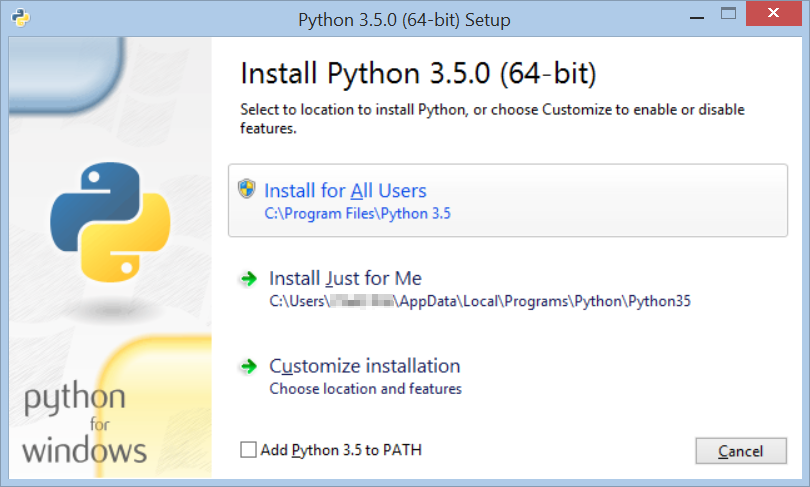
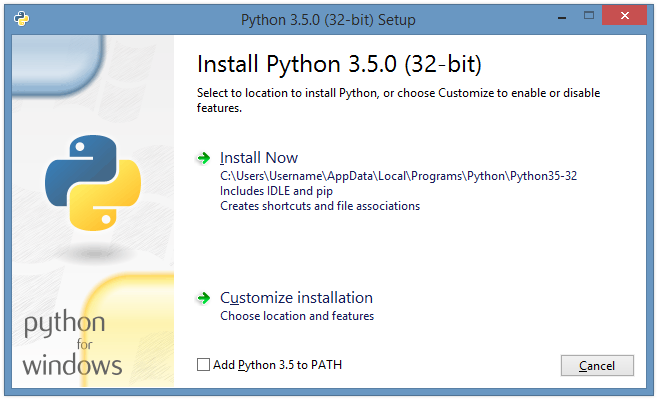
Updates documentation for installing Python on Windows.

diff --git a/Doc/using/windows.rst b/Doc/using/windows.rst
@@ -12,11 +12,6 @@
 This document aims to give an overview of Windows-specific behaviour you should
 know about when using Python on Microsoft Windows.
 
-.. XXX (ncoghlan)
-
-   This looks rather stale to me...
-
-
 Installing Python
 =================
 
@@ -24,11 +19,10 @@ Unlike most Unix systems and services, Windows does not include a system
 supported installation of Python. To make Python available, the CPython team
 has compiled Windows installers (MSI packages) with every `release
 <https://www.python.org/download/releases/>`_ for many years. These installers
-are primarily intended to add a system-wide installation of Python, with the
-core interpreter and library being shared by all application. Non-shared
-layouts of the Python interpreter may also be created with the same installer,
-however, the released installer is not intended for embedding in other
-installers.
+are primarily intended to add a per-user installation of Python, with the
+core interpreter and library being used by a single user. The installer is also
+able to install for all users of a single machine, and a separate ZIP file is
+available for application-local distributions.
 
 Installation Steps
 ------------------
@@ -41,30 +35,34 @@ default installation and only requires an internet connection for optional
 features. See :ref:`install-layout-option` for other ways to avoid downloading
 during installation.
 
-After starting the installer, one of three options may be selected:
+After starting the installer, one of two options may be selected:
 
 .. image:: win_installer.png
 
-If you select "Install for All Users":
+If you select "Install Now":
 
-* You may be required to provide administrative credentials or approval
-* Python will be installed into your Program Files directory
-* The :ref:`launcher` will be installed into your Windows directory
-* The standard library, test suite, launcher and pip will be installed
-* After installation, the standard library will be pre-compiled to bytecode
-* If selected, the install directory will be added to :envvar:`PATH`
-
-If you select "Install Just for Me":
-
-* You will *not* need to be an administrator
+* You will *not* need to be an administrator (unless a system update for the
+  C Runtime Library is required)
 * Python will be installed into your user directory
 * The :ref:`launcher` will *also* be installed into your user directory
 * The standard library, test suite, launcher and pip will be installed
-* If selected, the install directory will be added to :envvar:`PATH`
+* If selected, the install directory will be added to your :envvar:`PATH`
+* Shortcuts will only be visible for the current user
 
 Selecting "Customize installation" will allow you to select the features to
 install, the installation location and other options or post-install actions.
 To install debugging symbols or binaries, you will need to use this option.
+
+To perform an all-users installation, you should select "Customize
+installation". In this case:
+
+* You may be required to provide administrative credentials or approval
+* Python will be installed into the Program Files directory
+* The :ref:`launcher` will be installed into the Windows directory
+* Optional features may be selected during installation
+* The standard library will be pre-compiled to bytecode
+* If selected, the install directory will be added to the system :envvar:`PATH`
+* Shortcuts are available for all users
 
 .. _install-quiet-option:
 
@@ -294,7 +292,7 @@ System variables, you need non-restricted access to your machine
 
     The :envvar:`PYTHONPATH` variable is used by all versions of Python 2 and
     Python 3, so you should not permanently configure this variable unless it
-    only includes code that is compatible all of your installed Python
+    only includes code that is compatible with all of your installed Python
     versions.
 
 .. seealso::
